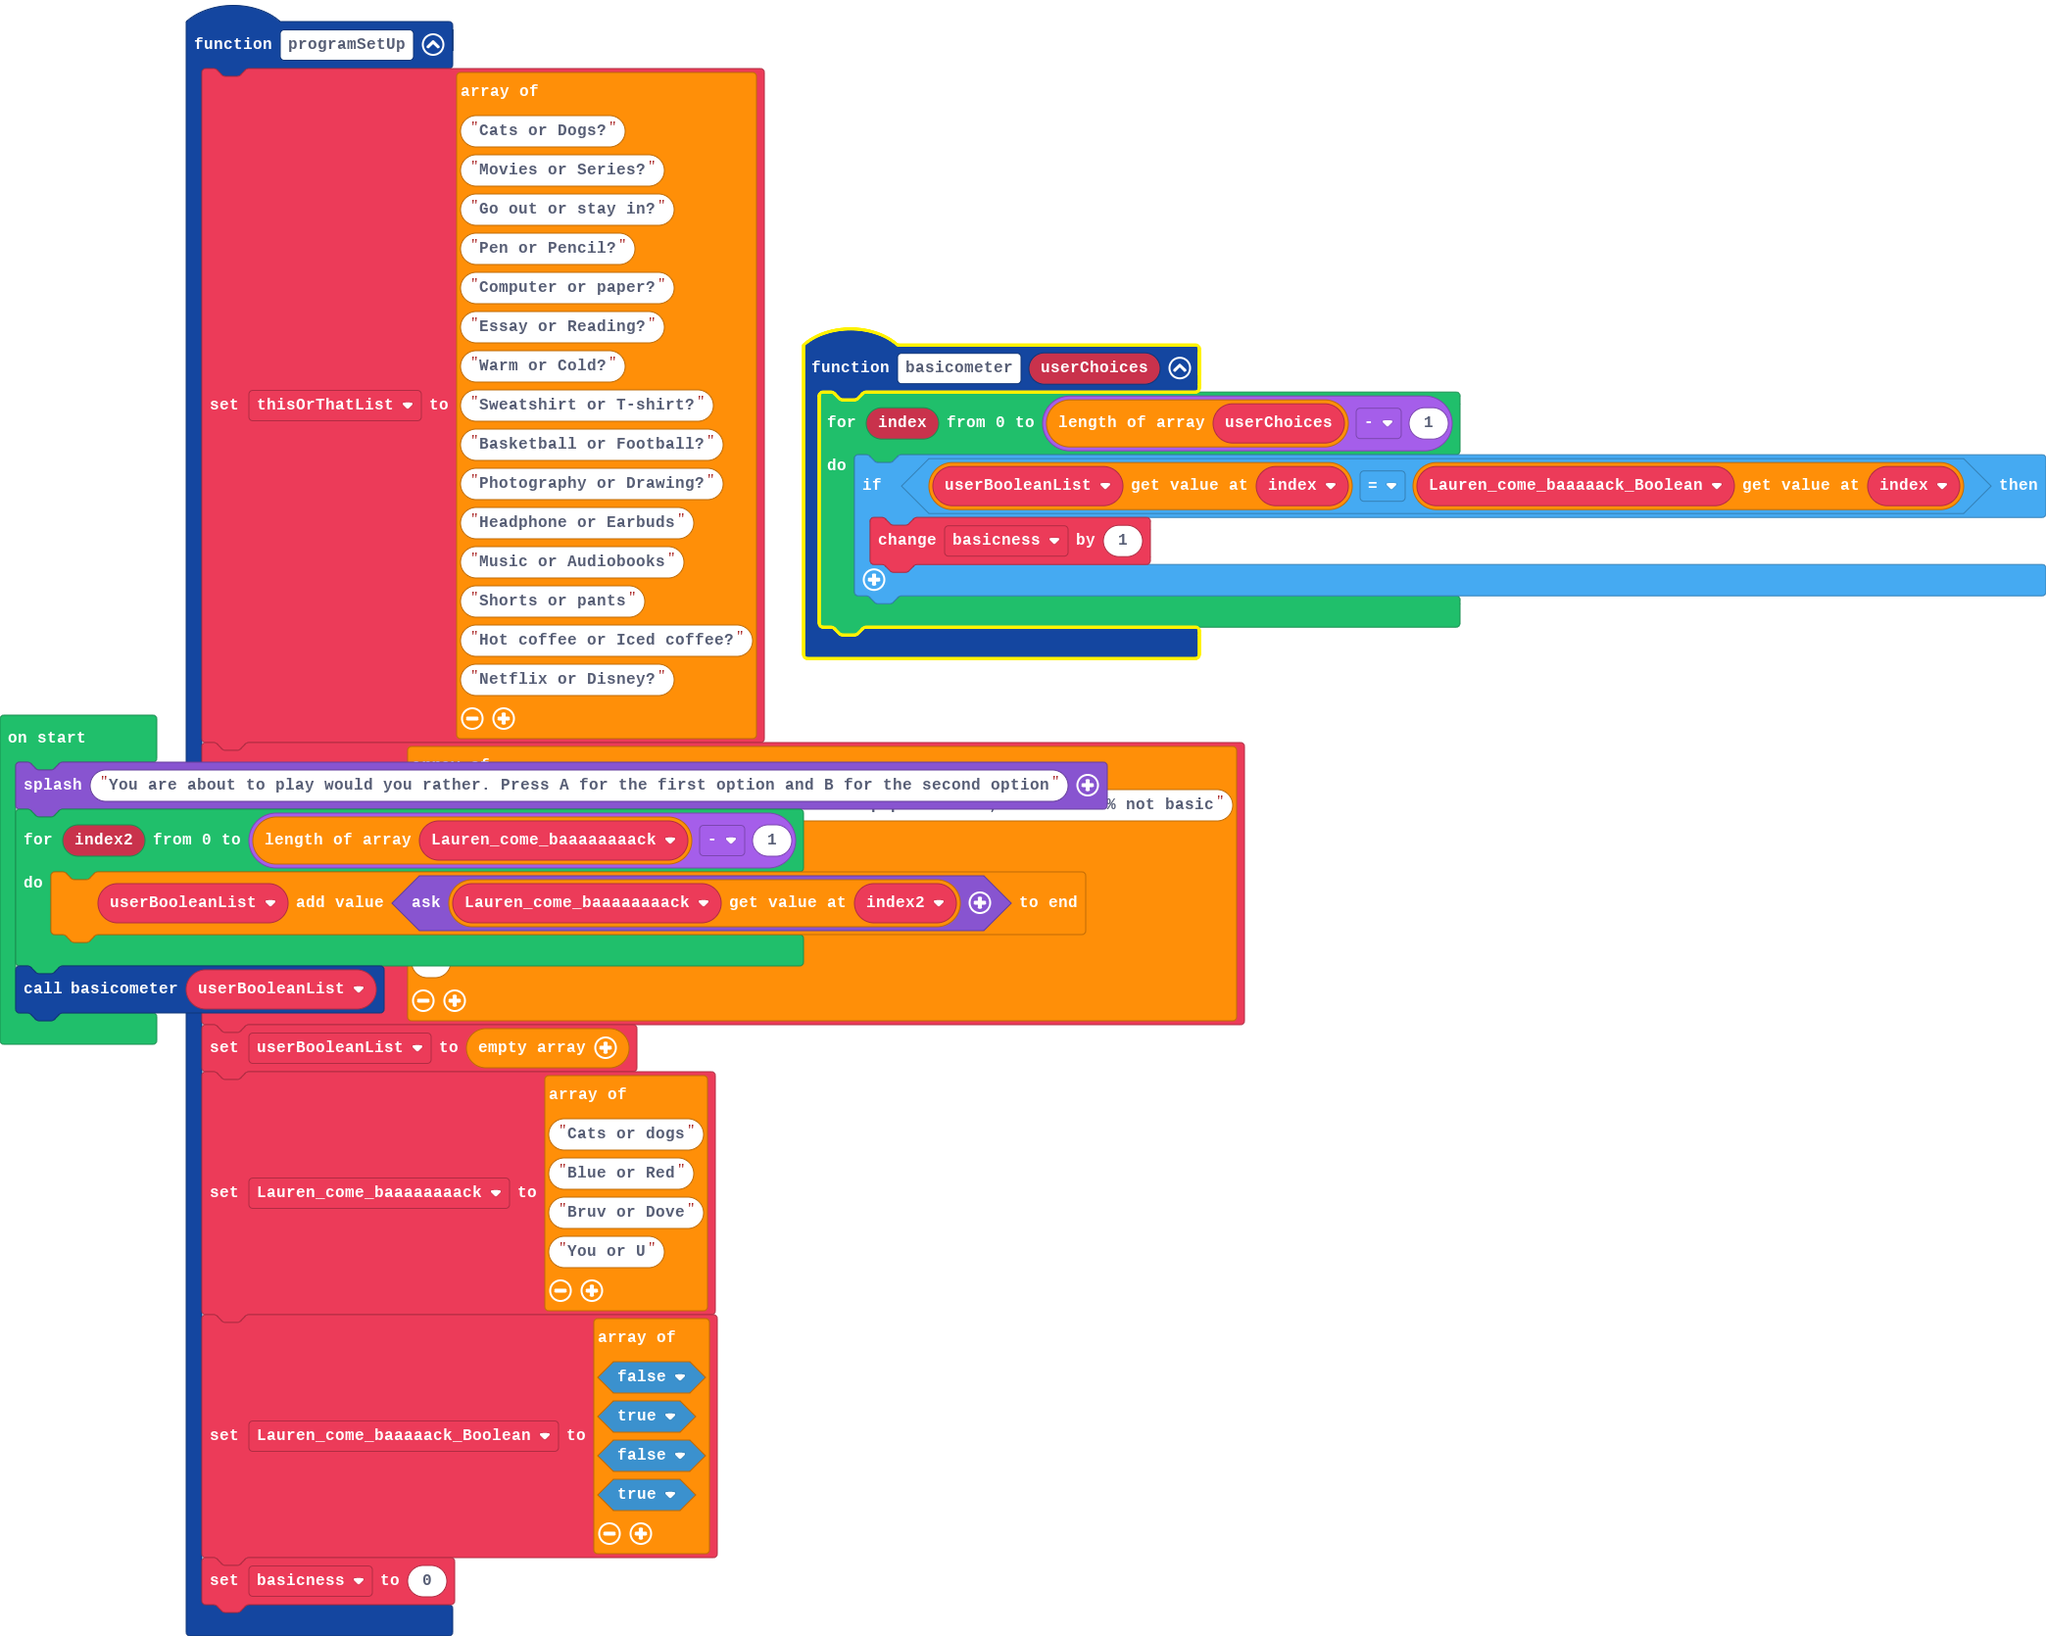
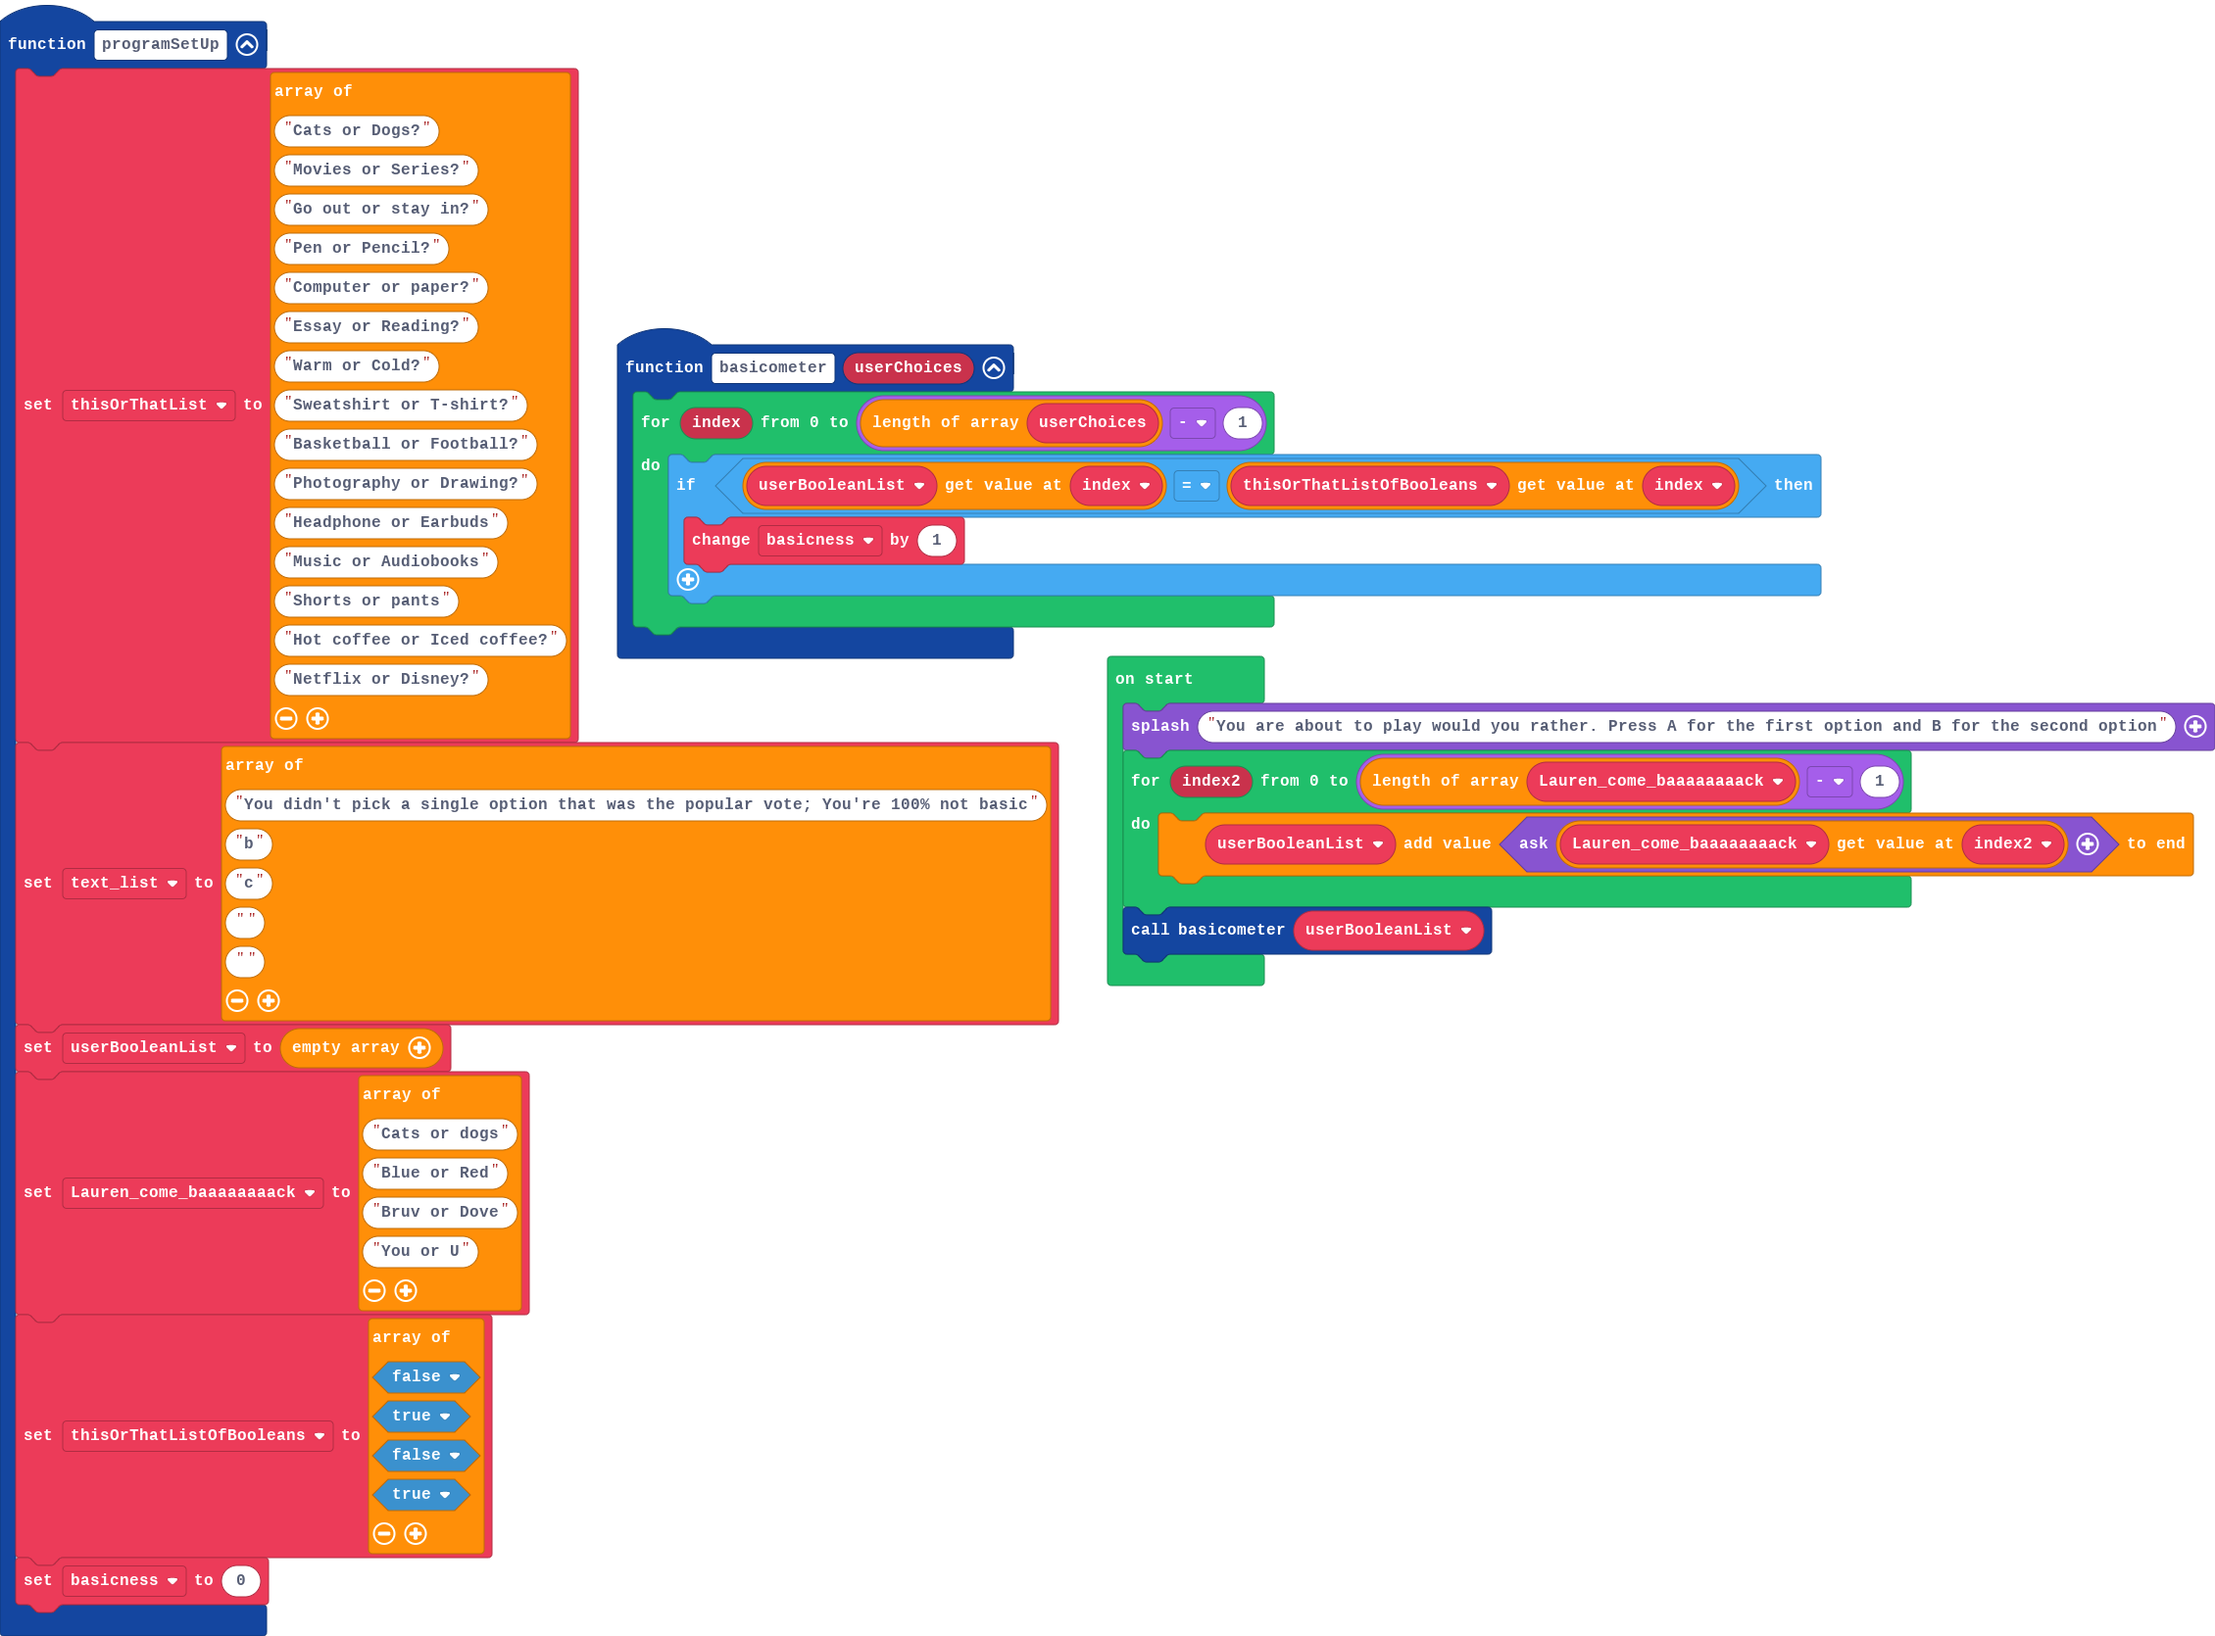
lauren is back

diff --git a/main.ts b/main.ts
@@ -30,7 +30,7 @@ function programSetUp () {
     "Bruv or Dove",
     "You or U"
     ]
-    Lauren_come_baaaaack_Boolean = [
+    thisOrThatListOfBooleans = [
     false,
     true,
     false,
@@ -40,13 +40,13 @@ function programSetUp () {
 }
 function basicometer (userChoices: any[]) {
     for (let index = 0; index <= userChoices.length - 1; index++) {
-        if (userBooleanList[index] == Lauren_come_baaaaack_Boolean[index]) {
+        if (userBooleanList[index] == thisOrThatListOfBooleans[index]) {
             basicness += 1
         }
     }
 }
 let basicness = 0
-let Lauren_come_baaaaack_Boolean: boolean[] = []
+let thisOrThatListOfBooleans: boolean[] = []
 let text_list: string[] = []
 let thisOrThatList: string[] = []
 let userBooleanList: boolean[] = []
